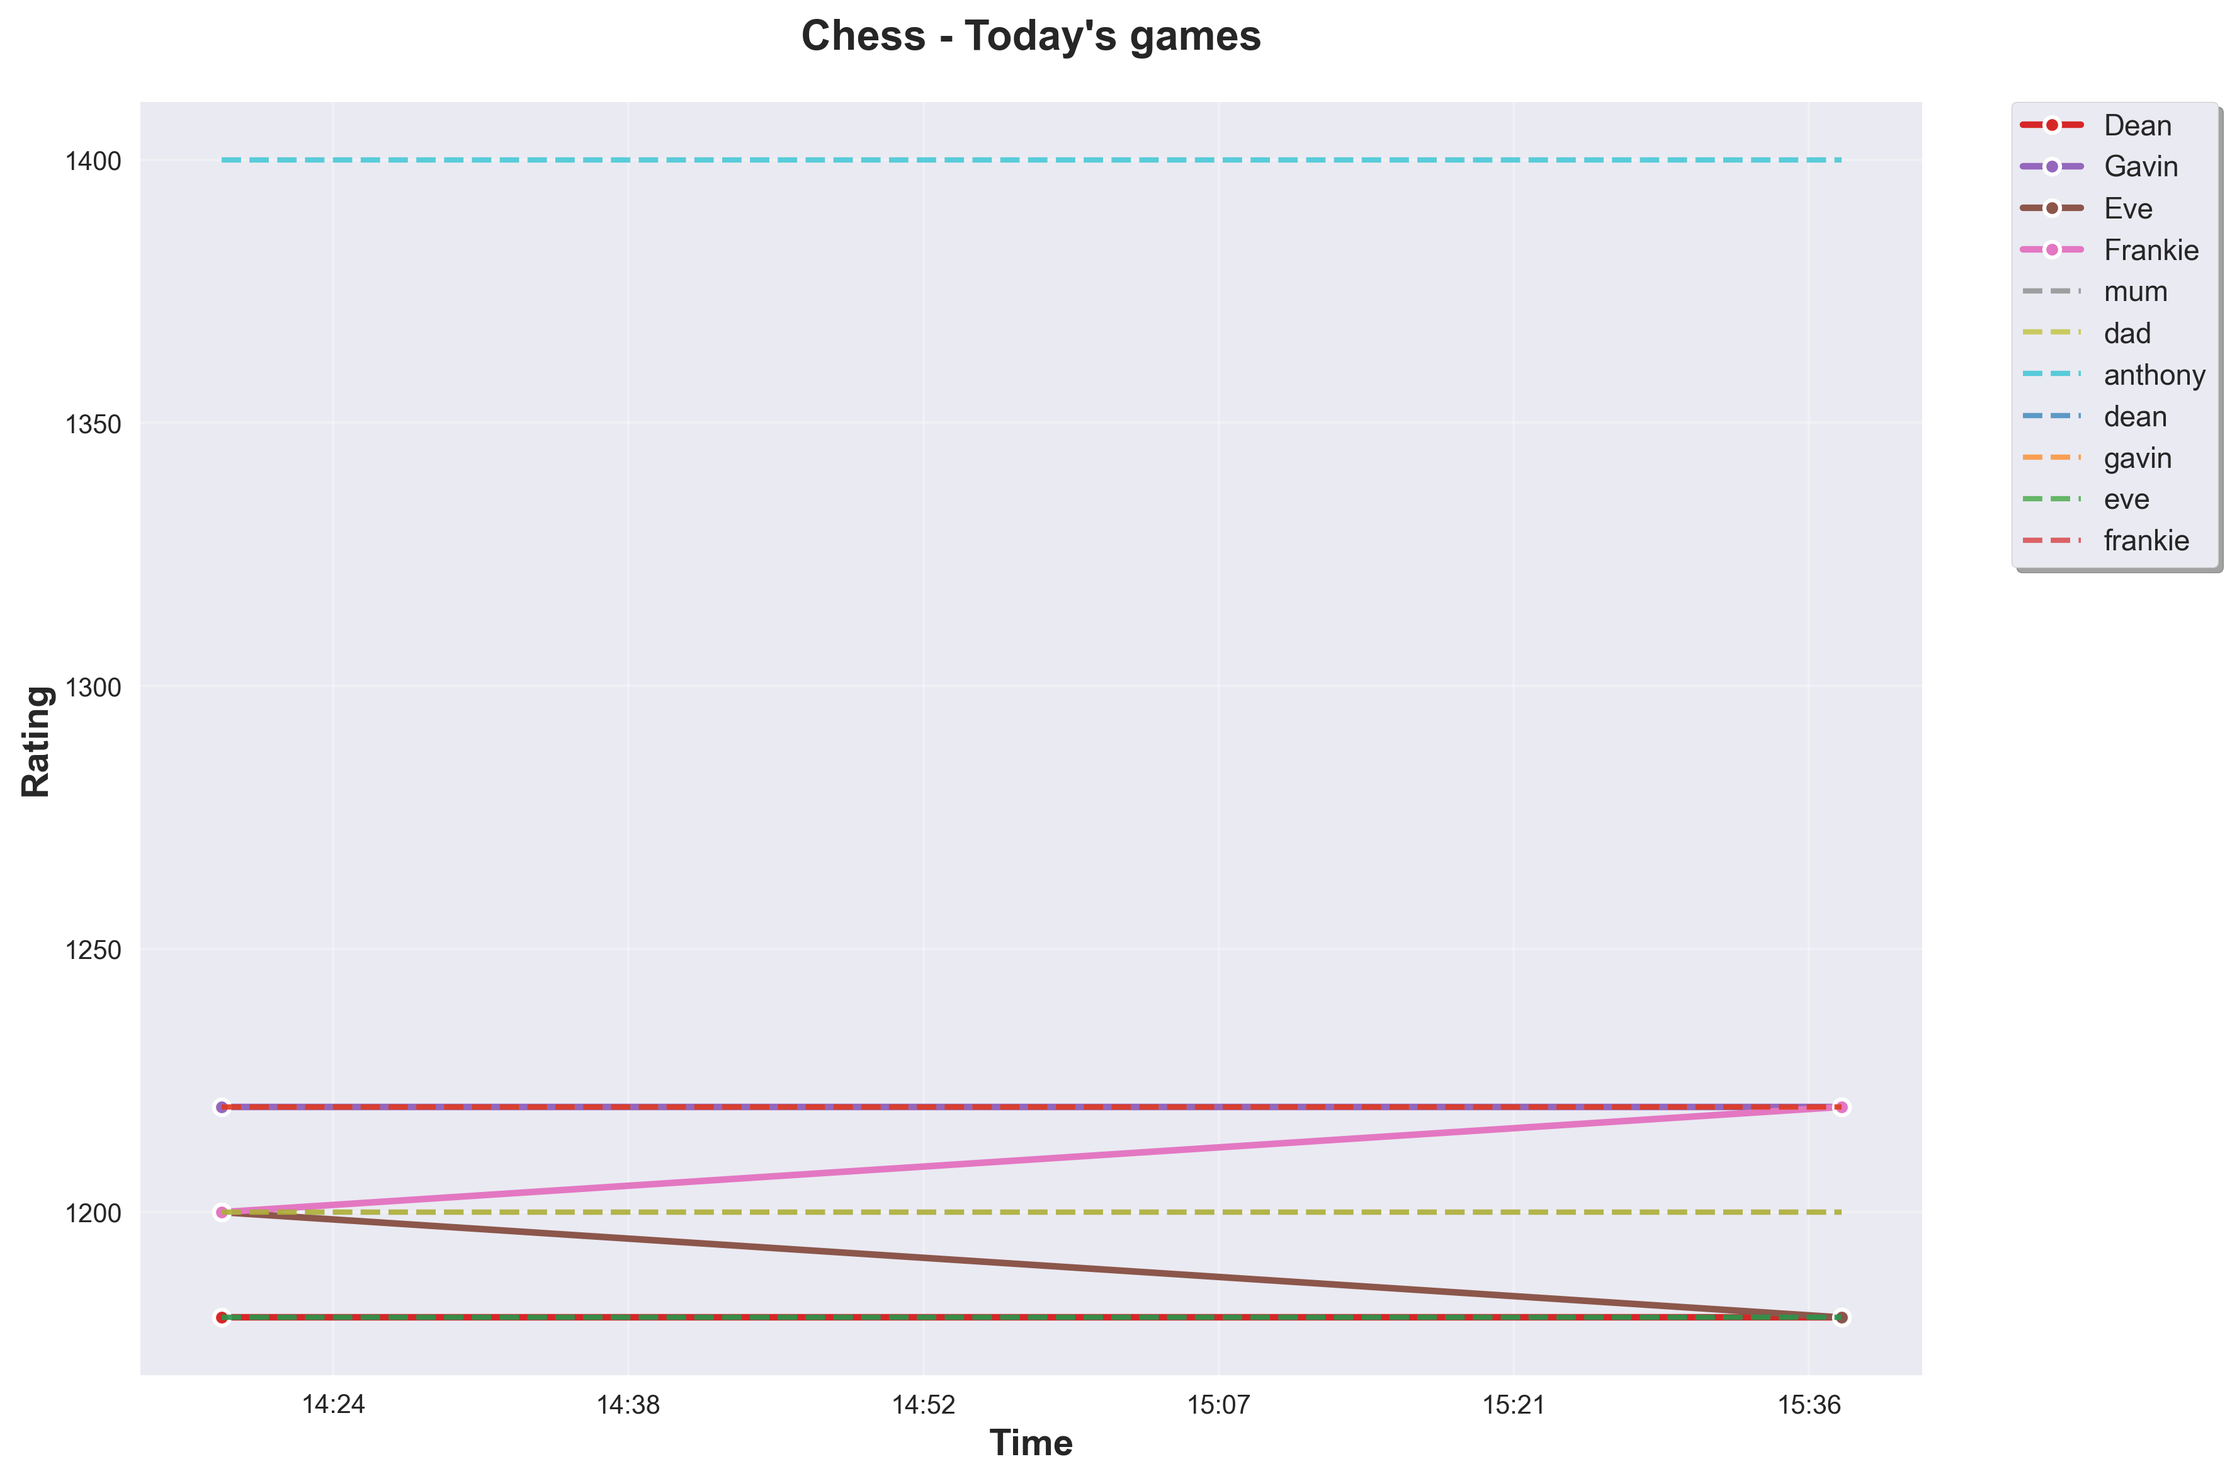
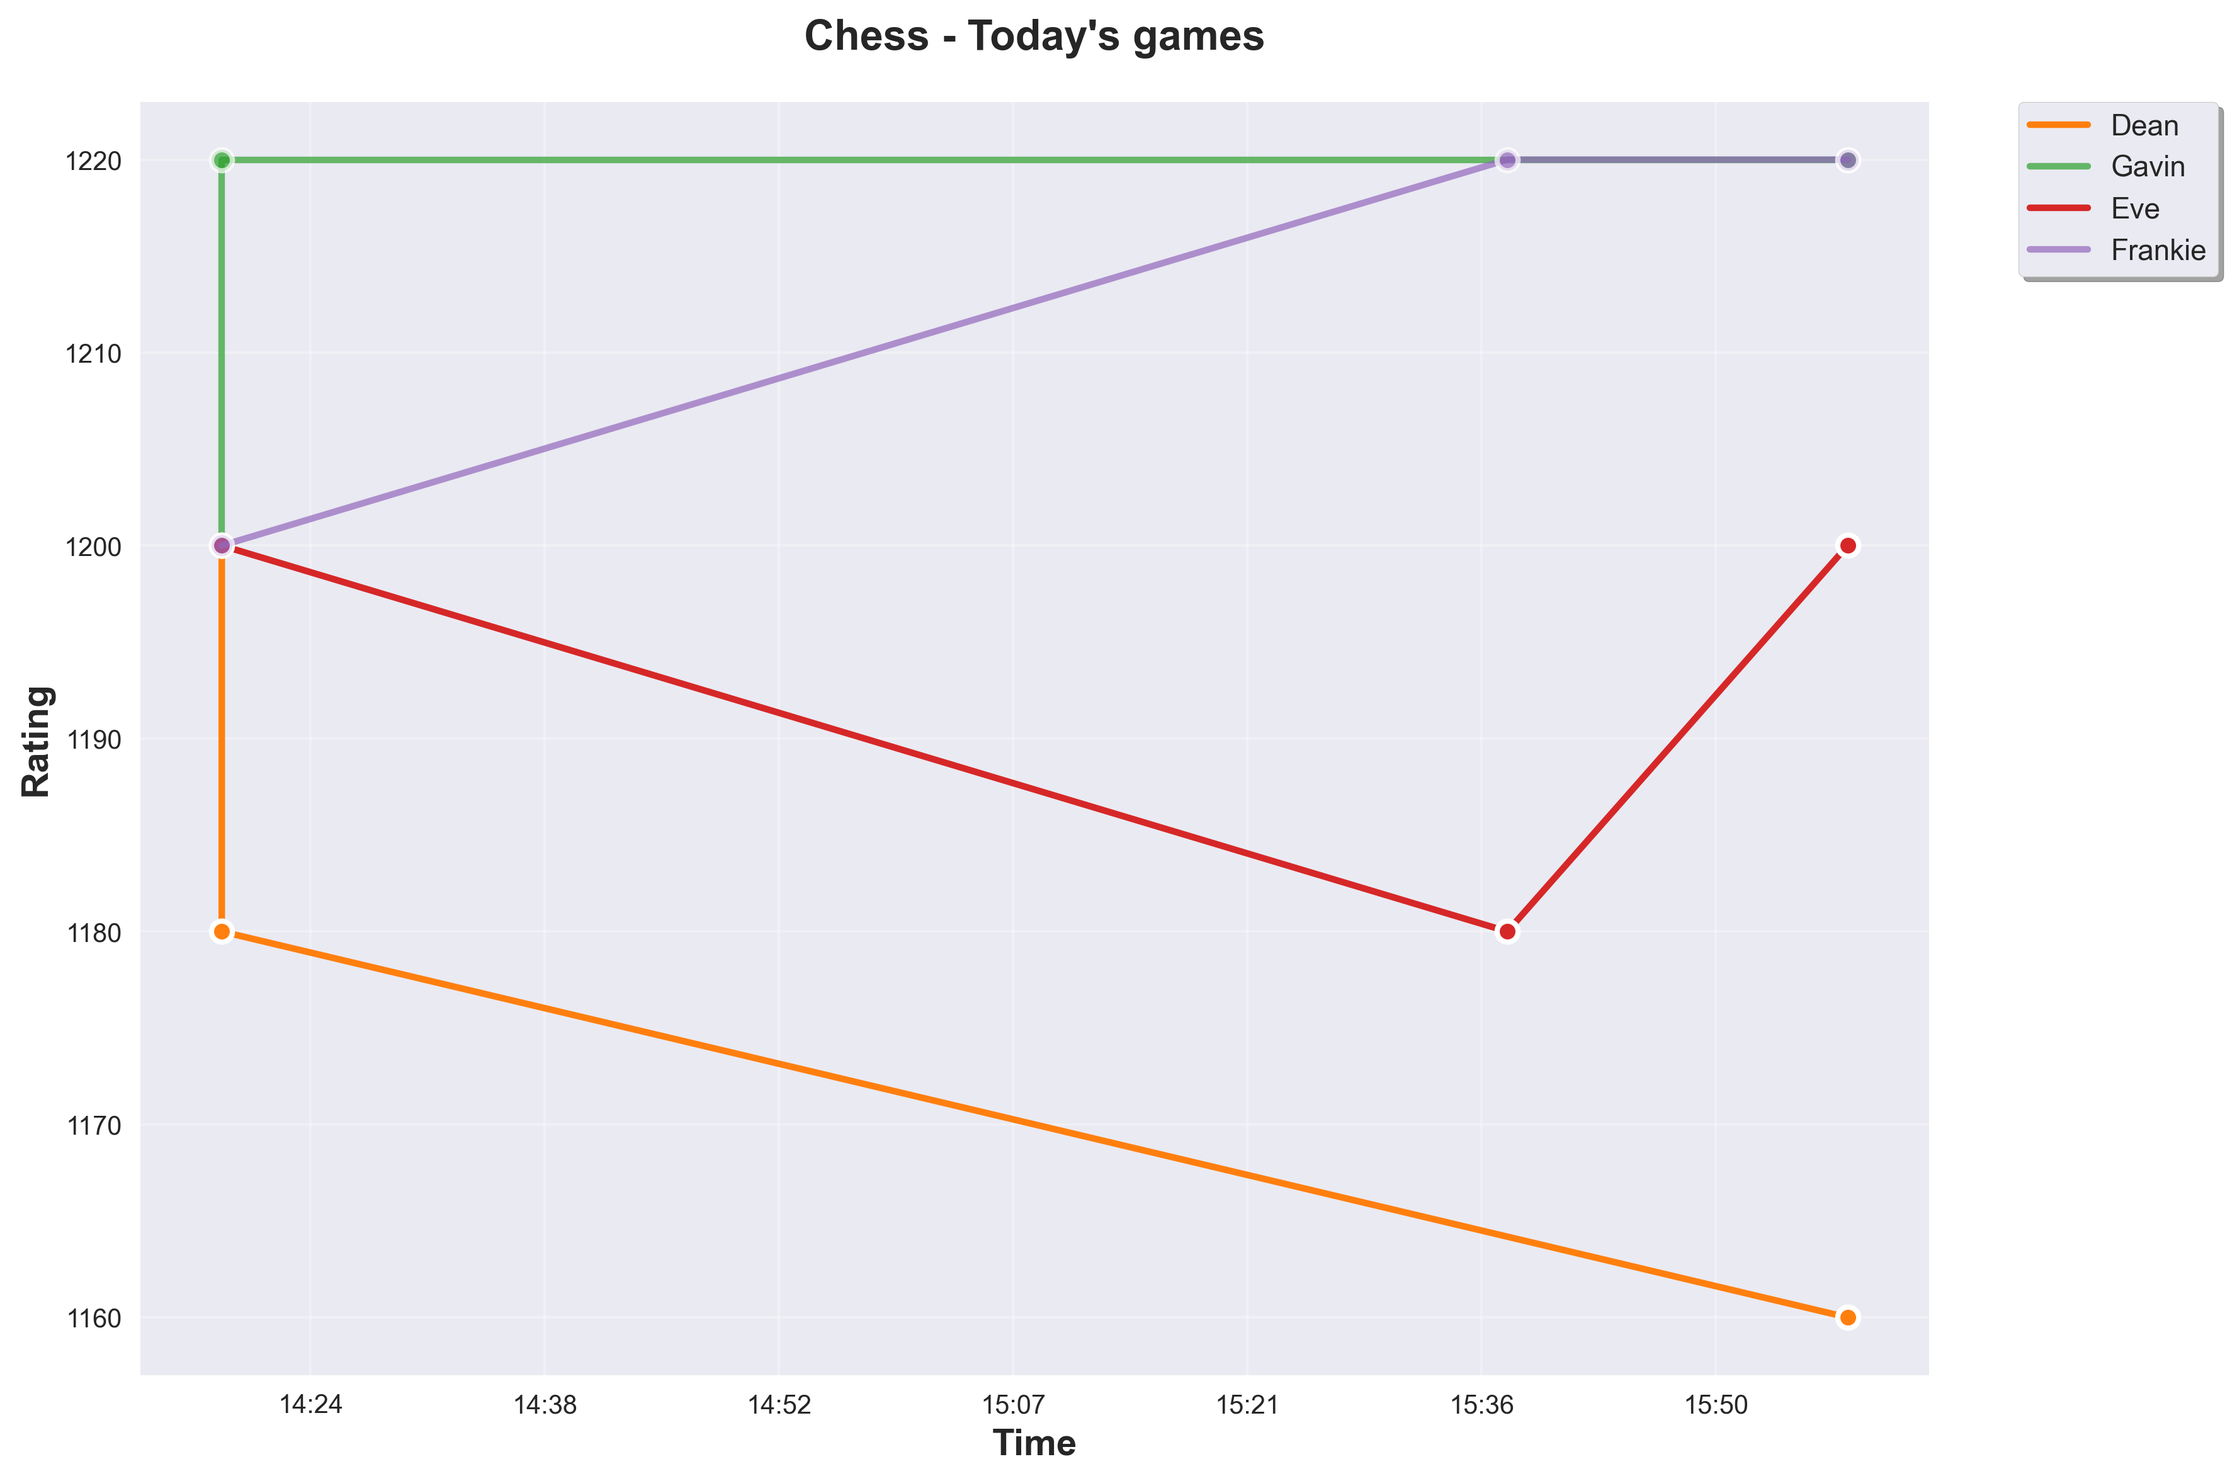
Enhanced ELO system with leaderboard, player management, and improved visualizations

diff --git a/leaderboard.py b/leaderboard.py
@@ -1,0 +1,195 @@
+import pandas as pd
+import matplotlib.pyplot as plt
+import sys
+import numpy as np
+import os
+from matplotlib.offsetbox import OffsetImage, AnnotationBbox
+
+# Set up matplotlib for better looking plots
+plt.style.use('seaborn-v0_8')
+plt.rcParams['figure.figsize'] = (10, 8)
+plt.rcParams['font.size'] = 12
+plt.rcParams['axes.grid'] = True
+plt.rcParams['grid.alpha'] = 0.3
+
+def add_medal_image(ax, x, y, position, size=0.04):
+    """Add a medal image from the images/medals/ folder"""
+    try:
+        # Map position to medal image filename
+        medal_files = {1: "1st.png", 2: "2nd.png", 3: "3rd.png"}
+        if position not in medal_files:
+            return
+        
+        medal_path = f"images/medals/{medal_files[position]}"
+        
+        # Load and add the medal image
+        img = plt.imread(medal_path)
+        imagebox = OffsetImage(img, zoom=size)
+        ab = AnnotationBbox(imagebox, (x, y), frameon=False)
+        ax.add_artist(ab)
+        
+    except Exception as e:
+        print(f"Could not load medal image for position {position}: {e}")
+        # Fallback to simple text
+        ax.text(x, y, f"{position}", fontsize=12, fontweight='bold', ha='center', va='center', 
+                color='#333333', bbox=dict(boxstyle="circle,pad=0.3", facecolor='gold' if position==1 else 'silver' if position==2 else '#CD7F32'))
+
+def get_current_ratings(game_folder):
+    """Get current ratings for all players in a game folder"""
+    ratings = {}
+    has_played = {}  # Track which players have actually played games
+    
+    if not os.path.exists(game_folder):
+        print(f"Game folder '{game_folder}' does not exist!")
+        return ratings, has_played
+    
+    for filename in os.listdir(game_folder):
+        if filename.endswith('.csv'):
+            player_name = filename.replace('.csv', '')
+            file_path = os.path.join(game_folder, filename)
+            
+            try:
+                data = pd.read_csv(file_path)
+                if not data.empty:
+                    current_rating = data['rating'].iloc[-1]  # Get the last rating
+                    ratings[player_name] = current_rating
+                    
+                    # Check if player has played any games (more than just "beginning of time")
+                    has_played[player_name] = len(data) > 1
+                else:
+                    # If file is empty, give them starting rating
+                    ratings[player_name] = 1200.0
+                    has_played[player_name] = False
+            except Exception as e:
+                print(f"Error reading {filename}: {e}")
+                # If there's an error, give them starting rating
+                ratings[player_name] = 1200.0
+                has_played[player_name] = False
+    
+    return ratings, has_played
+
+def create_leaderboard(game_folder, excluded_players=None, title=None):
+    """Create a leaderboard visualization"""
+    if excluded_players is None:
+        excluded_players = []
+    
+    ratings, has_played = get_current_ratings(game_folder)
+    
+    if not ratings:
+        print(f"No player data found in {game_folder}")
+        return
+    
+    # Filter out excluded players
+    filtered_ratings = {player: rating for player, rating in ratings.items() 
+                       if player.lower() not in [excluded.lower() for excluded in excluded_players]}
+    
+    if not filtered_ratings:
+        print(f"No players remaining after exclusions in {game_folder}")
+        return
+    
+    # Sort players by rating (highest first)
+    sorted_players = sorted(filtered_ratings.items(), key=lambda x: x[1], reverse=True)
+    
+    # Create the plot with a clean, simple design
+    fig, ax = plt.subplots(figsize=(8, 6))
+    
+    # Set background to white
+    fig.patch.set_facecolor('white')
+    ax.set_facecolor('white')
+    
+    # Remove all spines and ticks for a clean look
+    ax.spines['top'].set_visible(False)
+    ax.spines['right'].set_visible(False)
+    ax.spines['bottom'].set_visible(False)
+    ax.spines['left'].set_visible(False)
+    ax.set_xticks([])
+    ax.set_yticks([])
+    
+    # Set up the layout
+    y_positions = list(range(len(sorted_players)))
+    y_positions.reverse()  # So #1 is at the top
+    
+    # Define colors for medals
+    medal_colors = ['#FFD700', '#C0C0C0', '#CD7F32']  # Gold, Silver, Bronze
+    
+    # Draw each player's row
+    for i, (player, rating) in enumerate(sorted_players):
+        y_pos = y_positions[i]
+        
+        # Choose color based on position and whether they've played
+        if not has_played[player]:
+            # New player who hasn't played yet - highlight in green
+            color = '#90EE90'  # Light green
+        elif i == 0:
+            color = medal_colors[0]  # Gold
+        elif i == 1:
+            color = medal_colors[1]  # Silver
+        elif i == 2:
+            color = medal_colors[2]  # Bronze
+        else:
+            color = '#E8E8E8'  # Light gray
+        
+        # Draw background rectangle for the row
+        rect = plt.Rectangle((0, y_pos - 0.4), 1, 0.8, facecolor=color, alpha=0.3, edgecolor='none')
+        ax.add_patch(rect)
+        
+        # Add position number
+        ax.text(0.05, y_pos, f"{i+1:2d}.", fontsize=14, fontweight='bold', ha='left', va='center')
+        
+        # Add medal image for top 3
+        if i < 3:
+            add_medal_image(ax, 0.25, y_pos, i + 1)
+        
+        # Add player name
+        ax.text(0.35, y_pos, player.capitalize(), fontsize=14, fontweight='bold', ha='left', va='center')
+        
+        # Add rating
+        ax.text(0.85, y_pos, f"{int(rating):>4d}", fontsize=14, fontweight='bold', ha='right', va='center')
+    
+    # Set title
+    game_name = game_folder.title()
+    ax.set_title(f'{game_name} Leaderboard', fontsize=20, fontweight='bold', pad=30, color='#333333')
+    
+    # Set axis limits
+    ax.set_xlim(0, 1)
+    ax.set_ylim(-0.5, len(sorted_players) - 0.5)
+    
+    plt.tight_layout()
+    
+    # Save the leaderboard
+    output_file = f'{game_folder}_leaderboard.png'
+    plt.savefig(output_file, dpi=300, bbox_inches='tight', facecolor='white', edgecolor='none')
+    plt.close()
+    
+    print(f"Leaderboard saved as {output_file}")
+    
+    # Also print a text version
+    print(f"\n{game_name.upper()} LEADERBOARD:")
+    print("=" * 40)
+    for i, (player, rating) in enumerate(sorted_players):
+        print(f"{i+1:2d}. {player.capitalize():<12} {int(rating):>4d}")
+
+if __name__ == "__main__":
+    if len(sys.argv) < 2:
+        print("Usage: python3 leaderboard.py <game_folder> [--exclude player1] [--exclude player2] ...")
+        print("Example: python3 leaderboard.py chess")
+        print("Example: python3 leaderboard.py chess --exclude anthony")
+        print("Example: python3 leaderboard.py chess --exclude anthony --exclude eve")
+        sys.exit(1)
+    
+    game_folder = sys.argv[1]
+    
+    # Parse exclude arguments
+    excluded_players = []
+    i = 2
+    while i < len(sys.argv):
+        if sys.argv[i] == "--exclude" and i + 1 < len(sys.argv):
+            excluded_players.append(sys.argv[i + 1].lower())
+            i += 2
+        else:
+            i += 1
+    
+    if excluded_players:
+        print(f"Excluding players: {', '.join(excluded_players)}")
+    
+    create_leaderboard(game_folder, excluded_players) 

diff --git a/graph.py b/graph.py
@@ -22,10 +22,12 @@ def plot_rating(path_to_file, label):
 
   time_list = []
   valid_ratings = []
+  starting_rating = None
   
   for i, ts in enumerate(timestamp):
     if ts == "beginning of time":
-      # Skip the initial "beginning of time" entry
+      # Store the starting rating but don't add to timeline yet
+      starting_rating = rating[i]
       continue
     else:
       try:
@@ -38,9 +40,9 @@ def plot_rating(path_to_file, label):
         continue
 
   if time_list:  # Only plot if we have valid data
-    return time_list, valid_ratings, label[:-4]
+    return time_list, valid_ratings, label[:-4], starting_rating
   else:
-    return [], [], label[:-4]
+    return [], [], label[:-4], starting_rating
 
 
 # Collect all data first
@@ -52,11 +54,11 @@ player_data = {}  # Store each player's data separately
 print("Number of datasets: ", len(sys.argv)-1)
 for i in range(1, len(sys.argv)):
   dataset = sys.argv[i]
-  times, ratings, label = plot_rating(dataset, dataset)
+  times, ratings, label, starting_rating = plot_rating(dataset, dataset)
   all_times.extend(times)
   all_ratings.extend(ratings)
   all_labels.extend([label] * len(times))
-  player_data[label] = (times, ratings)
+  player_data[label] = (times, ratings, starting_rating)
 
 # Plot all data
 if all_times:
@@ -106,18 +108,22 @@ if all_times:
         all_requested_players.append(player_name)
     
     # Plot active players first
-    for i, (label, (times, ratings)) in enumerate(player_data.items()):
+    for i, (label, (times, ratings, starting_rating)) in enumerate(player_data.items()):
         if times:  # Player has games
             color = colors[i % len(colors)]
             
-            # Add starting point at first game time if player wasn't in first game
-            if times[0] != first_game_time:
-                # Insert starting rating at first game time
+            # Check if this player was in the first game
+            was_in_first_game = times[0] == first_game_time
+            
+            if was_in_first_game:
+                # Player was in the first game - add their starting rating at first game time
                 times_with_start = [first_game_time] + times
-                ratings_with_start = [1200.0] + ratings  # Starting rating
+                ratings_with_start = [starting_rating] + ratings
             else:
-                times_with_start = times
-                ratings_with_start = ratings
+                # Player wasn't in the first game - add a starting point at first game time
+                # This creates a flat line from first game time to their first actual game
+                times_with_start = [first_game_time] + times
+                ratings_with_start = [starting_rating] + ratings
             
             # Add ending point at last game time if player's last game wasn't the most recent
             if times_with_start[-1] != last_game_time:
@@ -128,17 +134,33 @@ if all_times:
                 times_with_end = times_with_start
                 ratings_with_end = ratings_with_start
             
+            # Check if this player has been inactive (no recent games)
+            is_inactive = times_with_start[-1] != last_game_time
+            
             # Convert to matplotlib dates
             mpl_times = [mdates.date2num(t) for t in times_with_end]
             # Extract just the player name from the label (remove path) and capitalize
             player_name = label.split('/')[-1] if '/' in label else label
             player_name = player_name.capitalize()
-            plt.plot(mpl_times, ratings_with_end, '-o', label=player_name, color=color, linewidth=2.5, markersize=6, markerfacecolor=color, markeredgecolor='white', markeredgewidth=1.5)
+            
+            # Plot the line first (make inactive players more transparent)
+            alpha = 0.7 if is_inactive else 1.0
+            plt.plot(mpl_times, ratings_with_end, '-', label=player_name, color=color, linewidth=2.5, alpha=alpha)
+            
+            # Plot dots at all key points (start, each game, end)
+            plt.plot(mpl_times, ratings_with_end, 'o', color=color, markersize=8, markerfacecolor=color, markeredgecolor='white', markeredgewidth=2, alpha=alpha)
     
-    # Plot inactive players
+    # Plot inactive players (only those who have no games at all)
     inactive_count = 0
     for player in all_requested_players:
-        if player not in player_data or not player_data[player][0]:  # No games
+        # Check if this player has any games by looking for their data in player_data
+        player_has_games = False
+        for label in player_data.keys():
+            if player in label:  # Check if player name is in the label
+                player_has_games = True
+                break
+        
+        if not player_has_games:  # Only plot if player has no games
             # Get their last rating from the CSV file
             try:
                 data = pd.read_csv(f"chess/{player}.csv")
@@ -153,7 +175,12 @@ if all_times:
             # Convert to matplotlib dates
             mpl_times = [mdates.date2num(t) for t in times_flat]
             color = colors[(len(player_data) + inactive_count) % len(colors)]
-            plt.plot(mpl_times, ratings_flat, '--', label=player, color=color, linewidth=2, alpha=0.7, markersize=4)
+            
+            # Plot the dashed line first
+            plt.plot(mpl_times, ratings_flat, '--', label=player, color=color, linewidth=2, alpha=0.7)
+            
+            # Plot dots at start and end points
+            plt.plot(mpl_times, ratings_flat, 'o', color=color, markersize=6, markerfacecolor=color, markeredgecolor='white', markeredgewidth=1.5, alpha=0.7)
             inactive_count += 1
 
 plt.ylabel("Rating", fontsize=14, fontweight='bold')

diff --git a/new_player.py b/new_player.py
@@ -1,14 +1,15 @@
 from update import *
 
 make_new_player("anthony", "chess")
-make_new_player("mum", "chess")
-make_new_player("dad", "chess")
+make_new_player("eid", "chess")
 make_new_player("dean", "chess")
+make_new_player("eve", "chess")
 make_new_player("gavin", "chess")
+make_new_player("frankie", "chess")
+make_new_player("oliver", "chess")
 
 make_new_player("anthony", "pingpong")
-make_new_player("mum", "pingpong")
-make_new_player("dad", "pingpong")
+make_new_player("eid", "pingpong")
 make_new_player("dean", "pingpong")
 make_new_player("eve", "pingpong")
 make_new_player("gavin", "pingpong")

diff --git a/README.md b/README.md
@@ -3,13 +3,13 @@
 
 - To Submit results:
 ```python
-python3 main.py --game "chess" --player1 "dean" --player2 "dad" --score 0.0
+python3 main.py --game "chess" --player1 "dean" --player2 "eid" --score 0.0
 ```
 where player1 is considered white, and score is the score from perspective of player1 (ie 0.0 means player1 lost).
 
 - To graph rating progression use:
 ```python
-python3 graph.py "chess/mum.csv" "chess/dad.csv" "chess/anthony.csv" "chess/dean.csv"
+python3 graph.py "chess/eid.csv" "chess/anthony.csv" "chess/dean.csv"
 ```
 where the resulting graph will be ratings.png.
 
